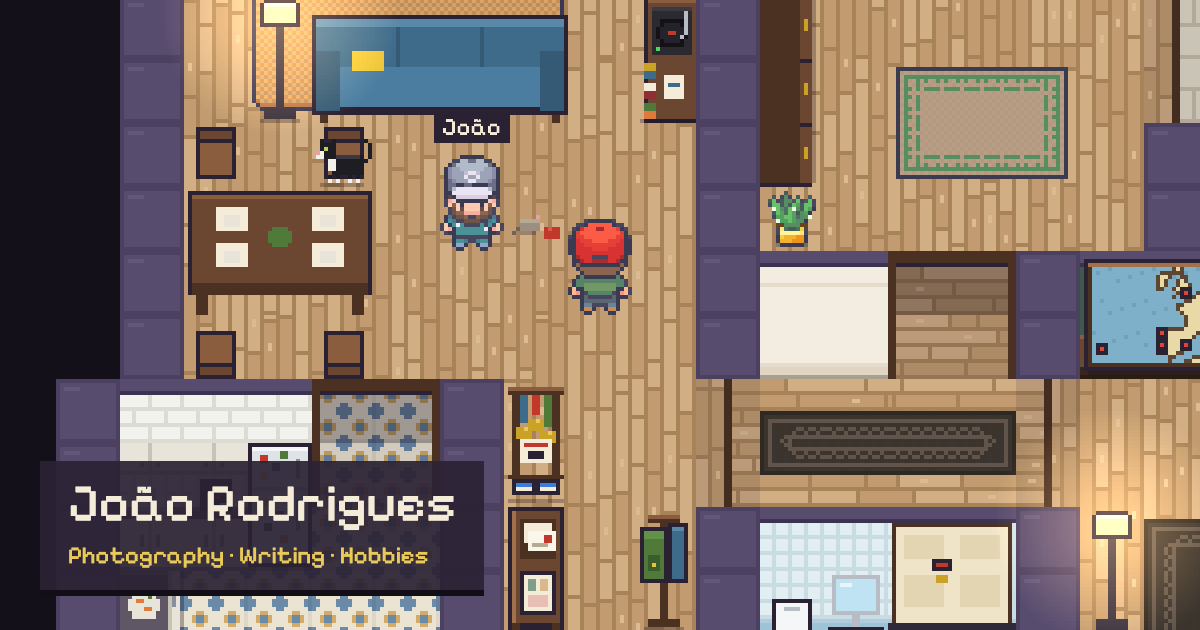
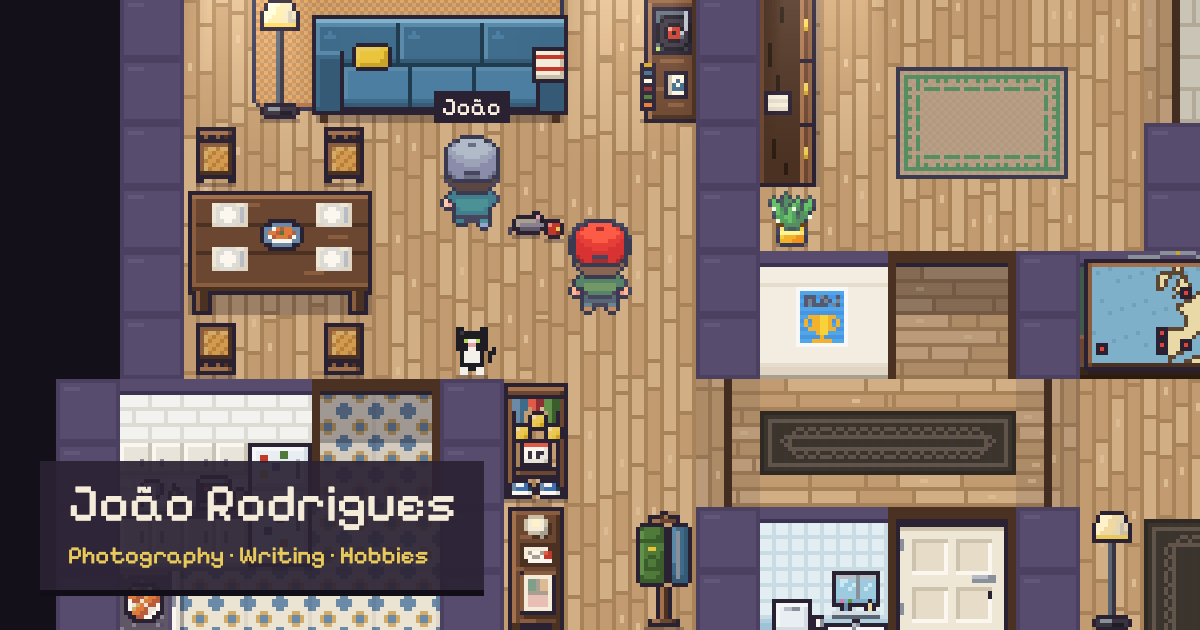
Document that all furniture is grid sprites, re-snapshot the share image

diff --git a/README.md b/README.md
@@ -194,8 +194,8 @@ dark around them like the lamps. Add `?season=xmas` (or `santos`, `halloween`, `
 Where things live:
 
 - `src/game/layout.ts` - the floor plan and rooms; `src/game/furnishings.ts` - what stands where;
-    `src/game/pixels.ts` - the pixel art drawn in code; `src/game/palette.ts` - the house palette;
-    `src/game/grid-sprite.ts` and `src/game/sprites/` - furniture redrawn as text grids (see
+    `src/game/pixels.ts` - floors, walls, doors and Zeno drawn in code; `src/game/palette.ts` - the
+    house palette; `src/game/grid-sprite.ts` and `src/game/sprites/` - the furniture as text grids (see
     [Drawing the house](#drawing-the-house)); `src/game/missions.ts` - missions and what
     they unlock; `src/game/seasons.ts` - which decorations are up;
     `src/game/house-scene.ts` - the Phaser scene; `src/game/lighting.ts` - daylight and the night's
@@ -225,14 +225,14 @@ and commit the PNG whenever the house art changes. It always snapshots the every
 
 ### Drawing the house
 
-Furniture is drawn in code, no image files. Two ways to write it:
-
-- **Rectangles** in `drawProp` (`src/game/pixels.ts`): most props, as they've always been.
-- **Grid sprites** in `src/game/sprites/props.ts`: one character per pixel, each mapped to a
-    palette swatch such as `'walnut.2'` (`.` is transparent, `,` the drop shadow). A prop listed in
-    `GRID_PROPS` draws from its grid instead of its rectangles; give it several grids and each copy
-    picks one by where it stands, so repeats along a wall differ. Redrawn and new furniture goes
-    here: a grid is easier to shade, review and edit than runs of rectangles.
+Furniture is drawn in code, no image files: every prop is a **grid sprite** in
+`src/game/sprites/props.ts`, one character per pixel, each mapped to a palette swatch such as
+`'walnut.2'` (`.` is transparent, `,` the drop shadow). `drawProp` (`src/game/pixels.ts`) draws a
+prop from its entry in `GRID_PROPS`, which must cover every prop in `PROP_SIZES`; give a prop
+several grids and each copy picks one by where it stands, so repeats along a wall differ (the
+kitchen's side counters get a chopping board or a bowl of oranges that way). Each grid fills its
+prop's `PROP_SIZES` box exactly. Floors, walls, doors and Zeno are still drawn as rectangles in
+`pixels.ts`.
 
 Every colour comes from `src/game/palette.ts`: 87 colours in named ramps (`ink`, `walnut`, `oak`,
 `terracotta`, `sky`, ...), dark to light, taken from the existing art. Shade a grid by stepping along
@@ -244,7 +244,7 @@ Tools, in `scripts/sprites/` (they write to `.sprites/`, which is git-ignored):
 ```bash
 bun run sprites:preview sofa tv          # contact sheet: 1x on the floor, and magnified with a grid
 bun run sprites:preview sofa --limezu palm,bedTeakGrey   # LimeZu pieces alongside, to match
-bun run sprites:palette                  # props still off the palette; --all lists the colours
+bun run sprites:palette                  # props drawing off the palette; --all lists the colours
 bun run sprites:grid export fridge       # prop → PNG, to edit in a pixel editor
 bun run sprites:grid import some.png     # PNG → GridSprite, snapped to the palette
 bun run sprites:ai "an espresso machine" --size 16x32   # optional AI draft (needs PIXELLAB_API_KEY)
